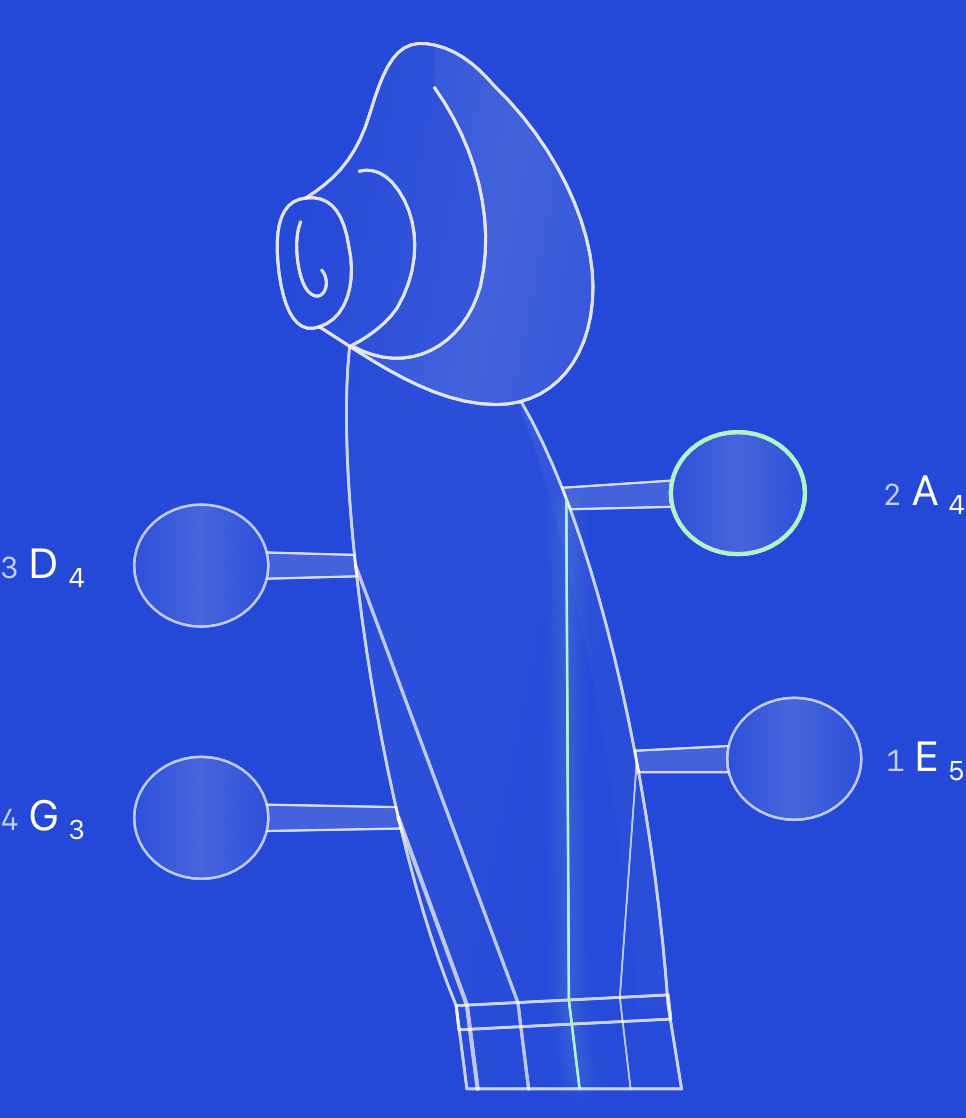
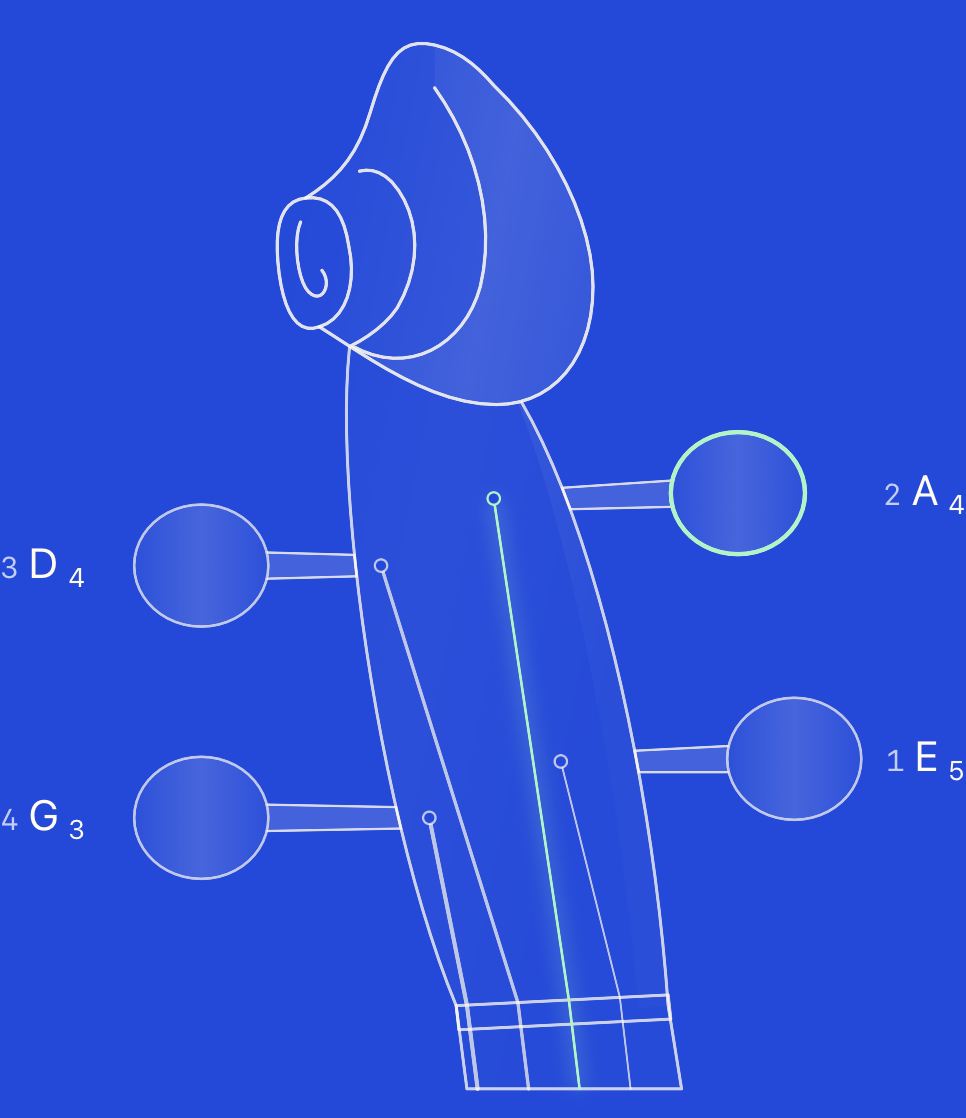
Separate bowed strings from pegbox outlines with winding anchors

diff --git a/Verification/design-audit/index.html b/Verification/design-audit/index.html
@@ -1,1 +1,1 @@
-<!doctype html><html lang="zh-CN"><meta charset="utf-8"><meta name="viewport" content="width=device-width,initial-scale=1"><title>Clean Tuner · 逐页设计检查</title><style>*{box-sizing:border-box}body{margin:0;background:#f3f3ef;color:#222;font:15px/1.6 system-ui}main{max-width:1400px;margin:auto;padding:32px}h1{font-size:26px;font-weight:500;margin-bottom:8px}p{max-width:850px}nav{display:flex;gap:8px;flex-wrap:wrap;margin:24px 0}button{padding:9px 18px;border:1px solid #ccc;background:white;border-radius:24px;font:inherit;cursor:pointer}button[aria-pressed=true]{background:#2449d8;color:white;border-color:#2449d8}.grid{display:grid;grid-template-columns:repeat(auto-fit,minmax(230px,1fr));gap:28px}article img{width:100%;display:block;border-radius:18px}h2{font-size:18px;font-weight:500;margin:12px 0 4px}article p{margin:0;color:#555}a{color:#2449d8}.extra{margin-top:40px}.extra .grid{grid-template-columns:repeat(auto-fit,minmax(230px,300px))}small{color:#777}</style><main><h1>Clean Tuner · 逐页设计检查</h1><p>以下全部是原生模拟器实拍截图。输入状态来自 iPhone 16e；待机、全部调准状态来自 iPhone SE。检查重点：识别度、比例、线条连接、标签归属和调准反馈。</p><nav aria-label="页面状态"><button aria-pressed="true" data-state="reference">输入中</button><button aria-pressed="false" data-state="idle">待机</button><button aria-pressed="false" data-state="completed">全部调准</button></nav><div class="grid"><article><img class="state" data-instrument="Guitar" src="reference-Guitar.png" alt="吉他调音页"><h2>吉他 · Guitar</h2><p>弦钮完整移到琴头外侧，轴柄水平连接内部轴柱；标签引线留出间隙。</p></article><article><img class="state" data-instrument="Ukulele" src="reference-Ukulele.png" alt="尤克里里调音页"><h2>尤克里里 · Ukulele</h2><p>缩短琴头比例，收紧 2+2 弦钮间距，避免像拉长的吉他。</p></article><article><img class="state" data-instrument="Bass" src="reference-Bass.png" alt="贝斯调音页"><h2>贝斯 · Bass</h2><p>四弦花瓣与斜轴共轴、上下对称；五、六弦左右镜像，弦钮完整位于琴头外。</p></article><article><img class="state" data-instrument="Violin" src="reference-Violin.png" alt="小提琴调音页"><h2>小提琴 · Violin</h2><p>移除与弦线交叉的内侧拱线；侧面只留窄阴影，琴轴柄从外壁自然接出。</p></article><article><img class="state" data-instrument="Viola" src="reference-Viola.png" alt="中提琴调音页"><h2>中提琴 · Viola</h2><p>保留较宽比例，去掉交叉拱线；琴轴柄与箱壁自然连接。</p></article><article><img class="state" data-instrument="Cello" src="reference-Cello.png" alt="大提琴调音页"><h2>大提琴 · Cello</h2><p>保留宽琴轴箱、低音八度和短指板，简化内部交叉描边与轴柄连接。</p></article><article><img class="state" data-instrument="Banjo" src="reference-Banjo.png" alt="班卓调音页"><h2>班卓 · Banjo</h2><p>短第五弦保留侧边起点；弦钮一起变绿，完成勾不再叠大圆框。</p></article><article><img class="state" data-instrument="Mandolin" src="reference-Mandolin.png" alt="曼陀铃调音页"><h2>曼陀铃 · Mandolin</h2><p>淡括线明确双弦分组；首页去掉重复 GDAE，保留八个实物弦钮。</p></article></div><section class="extra"><h2>Chromatic 与扩展弦数</h2><p>检查静音、偏移、调准和跨音边界，以及五、六弦贝斯和自定义五弦提琴。</p><div class="grid"><article><img src="chromatic-ring-silent.png" alt="Chromatic · 静音"><h2>Chromatic · 静音</h2></article><article><img src="chromatic-ring--8.png" alt="Chromatic · 偏低"><h2>Chromatic · 偏低</h2></article><article><img src="chromatic-ring-0.png" alt="Chromatic · 调准"><h2>Chromatic · 调准</h2></article><article><img src="chromatic-ring-75.png" alt="Chromatic · 跨音"><h2>Chromatic · 跨音</h2></article><article><img src="headstock-bass-5-strings.png" alt="五弦贝斯"><h2>五弦贝斯</h2></article><article><img src="headstock-bass-6-strings.png" alt="六弦贝斯"><h2>六弦贝斯</h2></article><article><img src="custom-five-string-bowed-headstock.png" alt="自定义五弦提琴"><h2>自定义五弦提琴</h2></article></div></section><p><a href="audit.md">详细检查记录</a></p><small>本次验证覆盖视觉与交互布局；截图使用测试音高，不代表新的真实麦克风精度测量。</small></main><script>document.querySelectorAll('nav button').forEach(b=>b.onclick=()=>{document.querySelectorAll('nav button').forEach(x=>x.setAttribute('aria-pressed',String(x===b)));document.querySelectorAll('img.state').forEach(x=>x.src=b.dataset.state+'-'+x.dataset.instrument+'.png')})</script></html>
+<!doctype html><html lang="zh-CN"><meta charset="utf-8"><meta name="viewport" content="width=device-width,initial-scale=1"><title>Clean Tuner · 逐页设计检查</title><style>*{box-sizing:border-box}body{margin:0;background:#f3f3ef;color:#222;font:15px/1.6 system-ui}main{max-width:1400px;margin:auto;padding:32px}h1{font-size:26px;font-weight:500;margin-bottom:8px}p{max-width:850px}nav{display:flex;gap:8px;flex-wrap:wrap;margin:24px 0}button{padding:9px 18px;border:1px solid #ccc;background:white;border-radius:24px;font:inherit;cursor:pointer}button[aria-pressed=true]{background:#2449d8;color:white;border-color:#2449d8}.grid{display:grid;grid-template-columns:repeat(auto-fit,minmax(230px,1fr));gap:28px}article img{width:100%;display:block;border-radius:18px}h2{font-size:18px;font-weight:500;margin:12px 0 4px}article p{margin:0;color:#555}a{color:#2449d8}.extra{margin-top:40px}.extra .grid{grid-template-columns:repeat(auto-fit,minmax(230px,300px))}small{color:#777}</style><main><h1>Clean Tuner · 逐页设计检查</h1><p>以下全部是原生模拟器实拍截图。输入状态来自 iPhone 16e；待机、全部调准状态来自 iPhone SE。检查重点：识别度、比例、线条连接、标签归属和调准反馈。</p><nav aria-label="页面状态"><button aria-pressed="true" data-state="reference">输入中</button><button aria-pressed="false" data-state="idle">待机</button><button aria-pressed="false" data-state="completed">全部调准</button></nav><div class="grid"><article><img class="state" data-instrument="Guitar" src="reference-Guitar.png" alt="吉他调音页"><h2>吉他 · Guitar</h2><p>弦钮完整移到琴头外侧，轴柄水平连接内部轴柱；标签引线留出间隙。</p></article><article><img class="state" data-instrument="Ukulele" src="reference-Ukulele.png" alt="尤克里里调音页"><h2>尤克里里 · Ukulele</h2><p>缩短琴头比例，收紧 2+2 弦钮间距，避免像拉长的吉他。</p></article><article><img class="state" data-instrument="Bass" src="reference-Bass.png" alt="贝斯调音页"><h2>贝斯 · Bass</h2><p>四弦花瓣与斜轴共轴、上下对称；五、六弦左右镜像，弦钮完整位于琴头外。</p></article><article><img class="state" data-instrument="Violin" src="reference-Violin.png" alt="小提琴调音页"><h2>小提琴 · Violin</h2><p>弦线从箱内绕弦点直达琴枕，与外轮廓分开；小轴点交代起点，侧面保留窄阴影。</p></article><article><img class="state" data-instrument="Viola" src="reference-Viola.png" alt="中提琴调音页"><h2>中提琴 · Viola</h2><p>保留较宽比例；弦线从箱内小轴点起始，不再贴着外轮廓。</p></article><article><img class="state" data-instrument="Cello" src="reference-Cello.png" alt="大提琴调音页"><h2>大提琴 · Cello</h2><p>保留宽琴轴箱与短指板，弦线接回内部绕弦点，外侧琴轴柄与弦线分层。</p></article><article><img class="state" data-instrument="Banjo" src="reference-Banjo.png" alt="班卓调音页"><h2>班卓 · Banjo</h2><p>短第五弦保留侧边起点；弦钮一起变绿，完成勾不再叠大圆框。</p></article><article><img class="state" data-instrument="Mandolin" src="reference-Mandolin.png" alt="曼陀铃调音页"><h2>曼陀铃 · Mandolin</h2><p>淡括线明确双弦分组；首页去掉重复 GDAE，保留八个实物弦钮。</p></article></div><section class="extra"><h2>Chromatic 与扩展弦数</h2><p>检查静音、偏移、调准和跨音边界，以及五、六弦贝斯和自定义五弦提琴。</p><div class="grid"><article><img src="chromatic-ring-silent.png" alt="Chromatic · 静音"><h2>Chromatic · 静音</h2></article><article><img src="chromatic-ring--8.png" alt="Chromatic · 偏低"><h2>Chromatic · 偏低</h2></article><article><img src="chromatic-ring-0.png" alt="Chromatic · 调准"><h2>Chromatic · 调准</h2></article><article><img src="chromatic-ring-75.png" alt="Chromatic · 跨音"><h2>Chromatic · 跨音</h2></article><article><img src="headstock-bass-5-strings.png" alt="五弦贝斯"><h2>五弦贝斯</h2></article><article><img src="headstock-bass-6-strings.png" alt="六弦贝斯"><h2>六弦贝斯</h2></article><article><img src="custom-five-string-bowed-headstock.png" alt="自定义五弦提琴"><h2>自定义五弦提琴</h2></article></div></section><p><a href="audit.md">详细检查记录</a></p><small>本次验证覆盖视觉与交互布局；截图使用测试音高，不代表新的真实麦克风精度测量。</small></main><script>document.querySelectorAll('nav button').forEach(b=>b.onclick=()=>{document.querySelectorAll('nav button').forEach(x=>x.setAttribute('aria-pressed',String(x===b)));document.querySelectorAll('img.state').forEach(x=>x.src=b.dataset.state+'-'+x.dataset.instrument+'.png')})</script></html>

diff --git a/TheTuner/InstrumentArtwork.swift b/TheTuner/InstrumentArtwork.swift
@@ -204,10 +204,8 @@ struct InstrumentHeadDrawing: View {
                     let endX = layout.stringX(i, member: member)
                     var string = Path()
                     if instrument.bowed {
-                        // Show the string emerging at the peg, without a loose end on the face.
-                        let referenceY = (post.y - layout.artOrigin.y) / layout.artScale
-                        let wall = BowedHeadstockArtwork.wallPoint(at: referenceY, left: side)
-                        string.move(to: layout.artPoint(wall.x, wall.y))
+                        // Strings wind around the pegs inside the box, not around its outer wall.
+                        string.move(to: post)
                         let referenceX = (endX - layout.artOrigin.x) / (layout.artScale * layout.breadth)
                         let nutY = 369 - 4 * (referenceX - 190) / 79
                         string.addLine(to: layout.artPoint(referenceX, nutY))
@@ -224,6 +222,13 @@ struct InstrumentHeadDrawing: View {
                         }
                     }
                     stroke(string, color, widths[i])
+                    if instrument.bowed {
+                        let radius = 2.3 * layout.artScale
+                        let winding = Path(ellipseIn: CGRect(x: post.x - radius, y: post.y - radius,
+                                                            width: radius * 2, height: radius * 2))
+                        context.fill(winding, with: .color(style.face))
+                        stroke(winding, color, 0.75)
+                    }
                     if !instrument.bowed && !drone {
                         let circle = Path(ellipseIn: CGRect(x: post.x - 7, y: post.y - 7, width: 14, height: 14))
                         context.fill(circle, with: .color(style.face)); stroke(circle, color, selected == i ? 1.6 : 0.8)

diff --git a/Verification/design-audit/audit.md b/Verification/design-audit/audit.md
@@ -51,3 +51,9 @@
 截图复查后，将可见弦头接到琴轴与箱壁的同一交点，避免移除遮挡后留下悬空线头；四根弦在斜向琴枕上各自折入短指板。
 
 提琴本轮验证：最终琴头截图、自定义五弦琴轴点击检查与 SE 全部待机／完成状态测试通过。已检查三种提琴放大截图，签名构建与手机安装成功。
+
+## 提琴弦线与轮廓分离
+
+上轮将弦头接到箱壁，虽然减少悬空接点，却使粗弦贴着外轮廓，看起来像多余结构边线。此次弦线恢复从箱内的真实绕弦位置直达琴枕，用很小的空心轴点交代起点；外侧琴轴柄仍按箱壁遮挡，不恢复穿过正面的横线。保留既有卷轴比例和简化后的侧面阴影。
+
+绕弦点修正验证：原生琴头截图和自定义五弦目标检查通过；SE 待机／完成状态通过；放大复查 violin、viola、cello 后，弦线不再贴在外壁，轴点和琴枕连接清楚。真机签名构建与配对 iPhone 更新成功。
